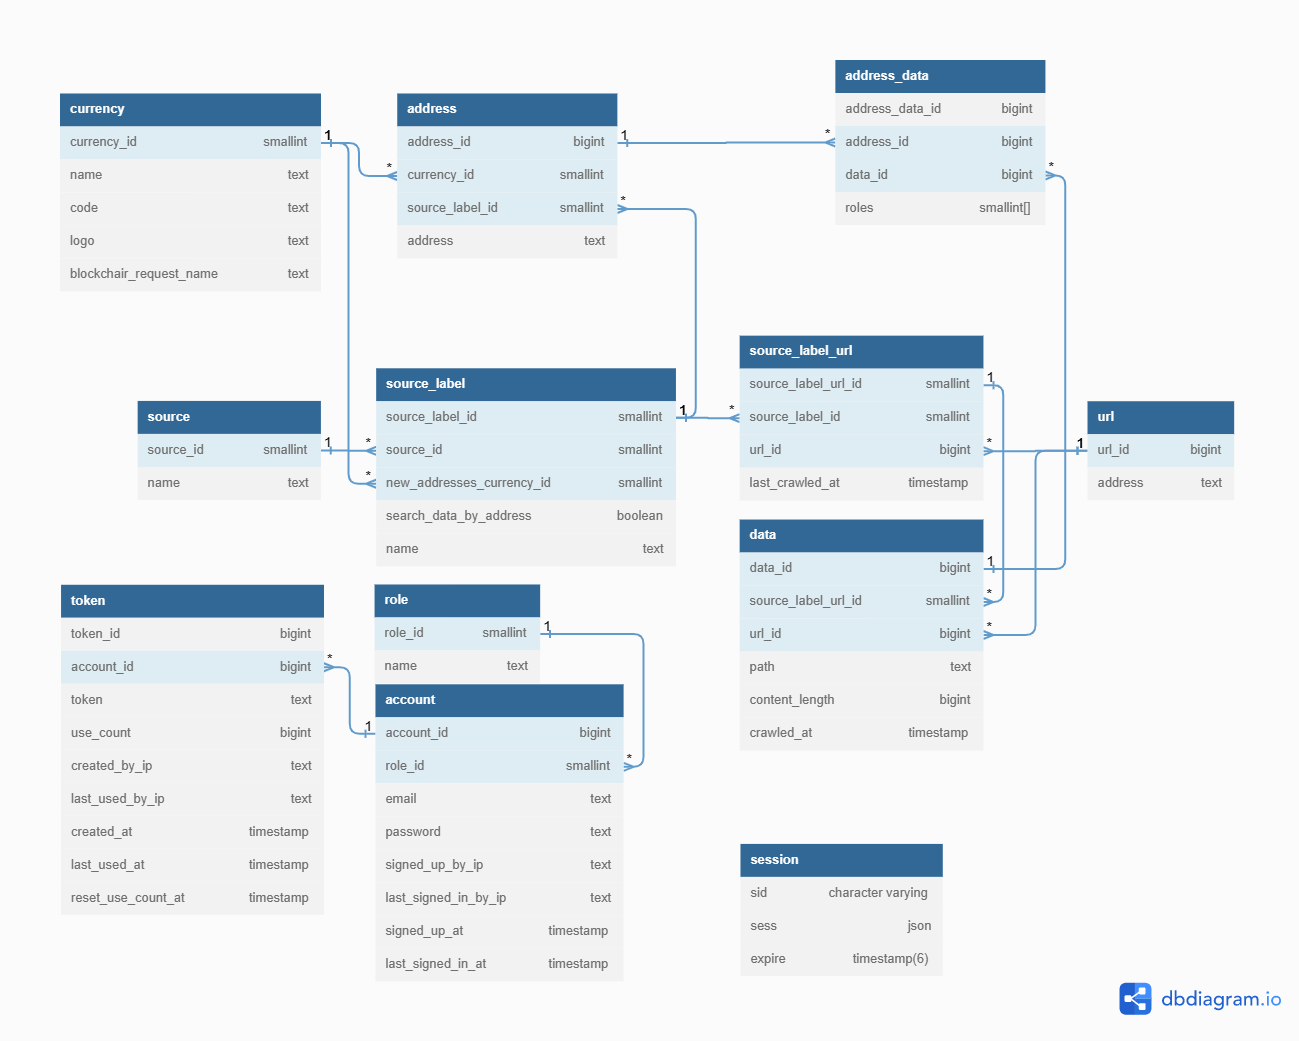
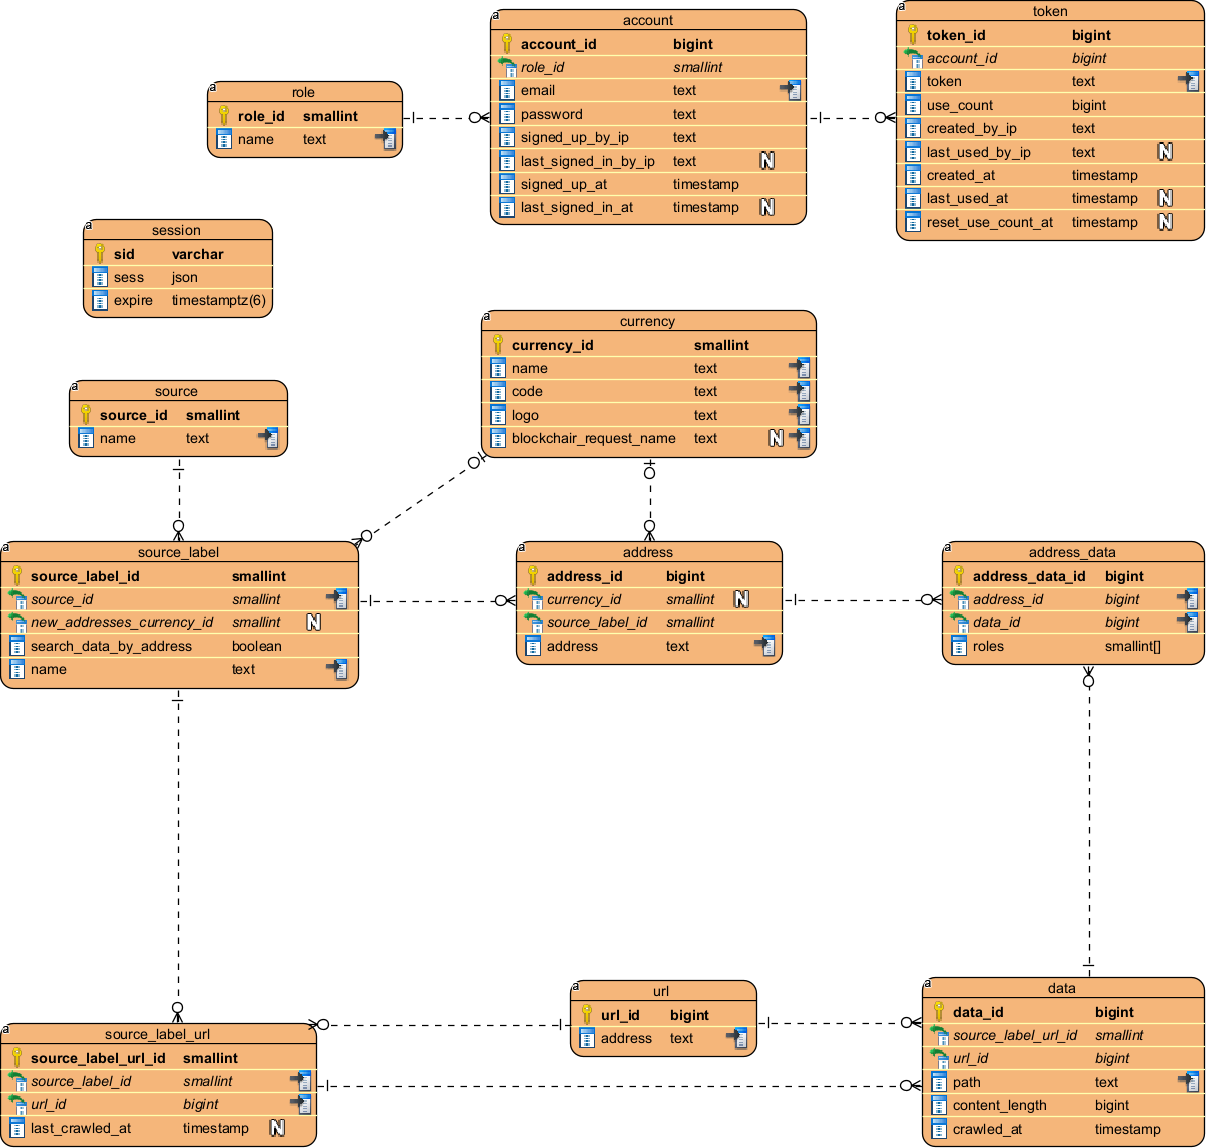
Added component & use case diagram, updated ER diagram & 3rd party SW versions

diff --git a/README.md b/README.md
@@ -67,7 +67,7 @@ The goal of the thesis is creation of a tool for pinpointing owners of the Bitco
 [^connecting_addresses_and_data]: The Crawler connects the crawled addresses and data.
 
 ### Requirements:
-- [PostgreSQL 15.1 for Windows (64-bit)](https://www.enterprisedb.com/downloads/postgres-postgresql-downloads "PostgreSQL 15.1 for Windows (64-bit)")
+- [PostgreSQL 15.2 for Windows (64-bit)](https://www.enterprisedb.com/downloads/postgres-postgresql-downloads "PostgreSQL 15.2 for Windows (64-bit)")
 - [Python 3.11 for Windows (64-bit)](https://www.python.org/downloads/windows/ "Python 3.11 for Windows (64-bit)")
 
 ### Installation:
@@ -120,7 +120,7 @@ The goal of the thesis is creation of a tool for pinpointing owners of the Bitco
   - :heavy_check_mark: Error *- 404 Not Found*
 
 ### Requirements:
-- [Node.js 18.13.0 LTS for Windows (64-bit)](https://nodejs.org/en/download/ "Node.js 18.13.0 LTS for Windows (64-bit)")
+- [Node.js 18.15 LTS for Windows (64-bit)](https://nodejs.org/en/download/ "Node.js 18.15 LTS for Windows (64-bit)")
 
 ### Installation:
 1. Download and install Node.js
@@ -140,8 +140,9 @@ The goal of the thesis is creation of a tool for pinpointing owners of the Bitco
 ## :printer: Documentation [[documentation](documentation "Documentation")]
 ### Content:
 - :memo: [Database dump](documentation/db_dump.sql "Database dump")
-- :memo: [Database schema plan](documentation/db_schema_plan.png "Database schema plan")
-- :memo: [ER diagram](documentation/er_diagram.png "ER diagram")
+- :memo: [Entity Relationship diagram](documentation/er_diagram.png "Entity Relationship diagram")
+- :memo: [Component diagram](documentation/component_diagram.png "Component diagram")
+- :memo: [Use Case diagram](documentation/uc_diagram.png "Use Case diagram")
 
 ## :ice_cube: Crawler (Node.js) [[deprecated](deprecated "Crawler (Node.js)")]
 *Crawler (Node.js) is now deprecated and has been replaced by the newer [Database Builder](#hammer_and_wrench-database-builder-db_builder "Database Builder")!*
